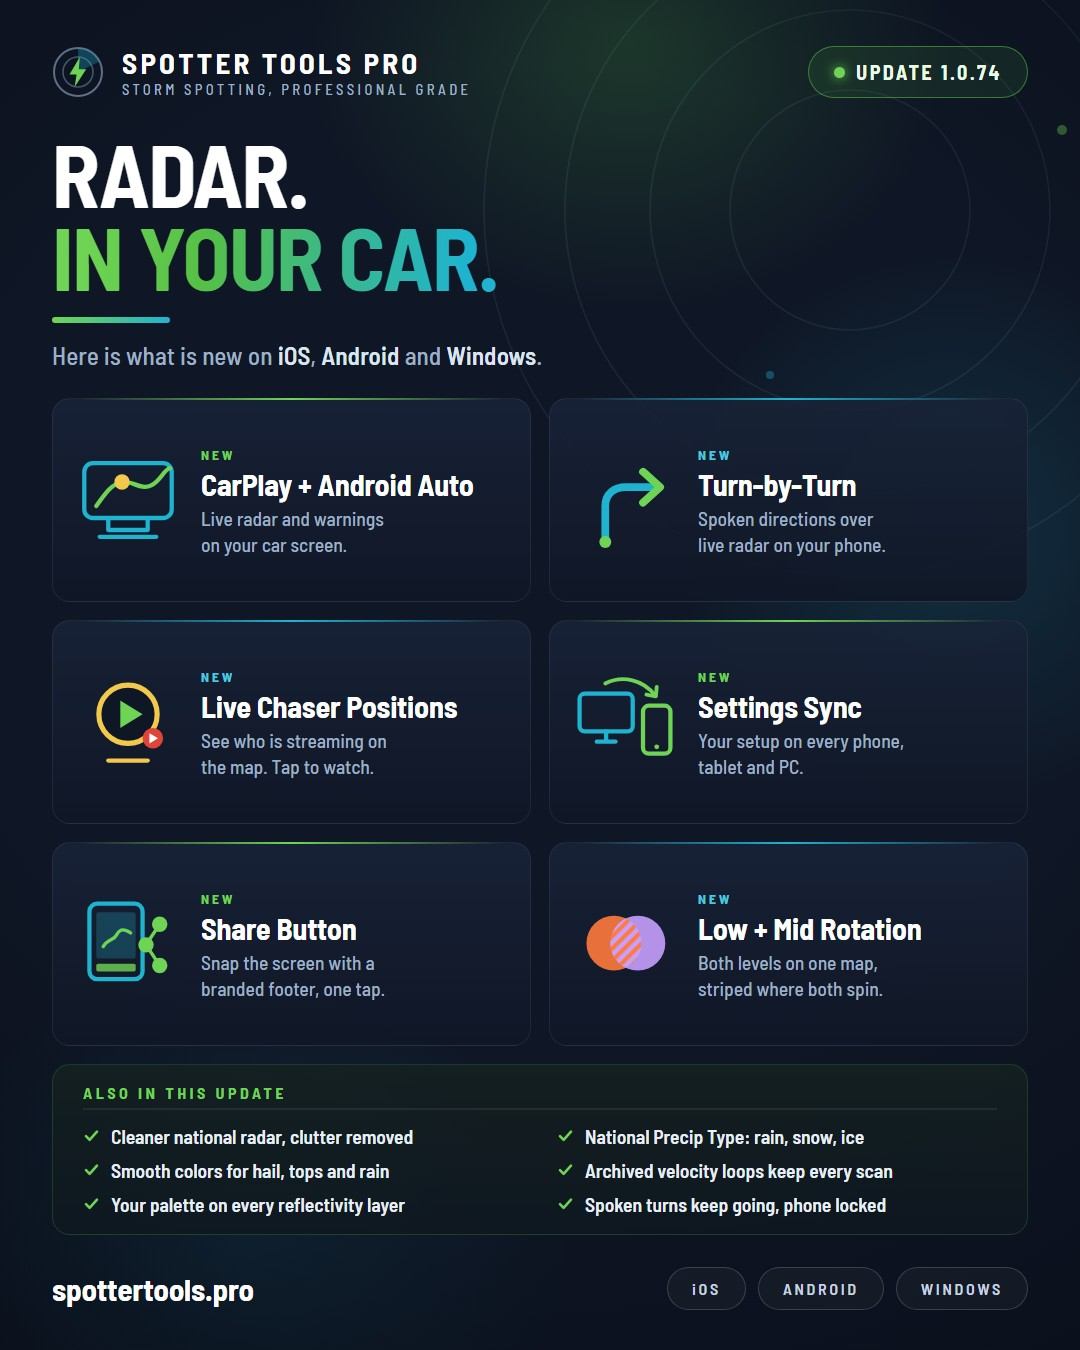
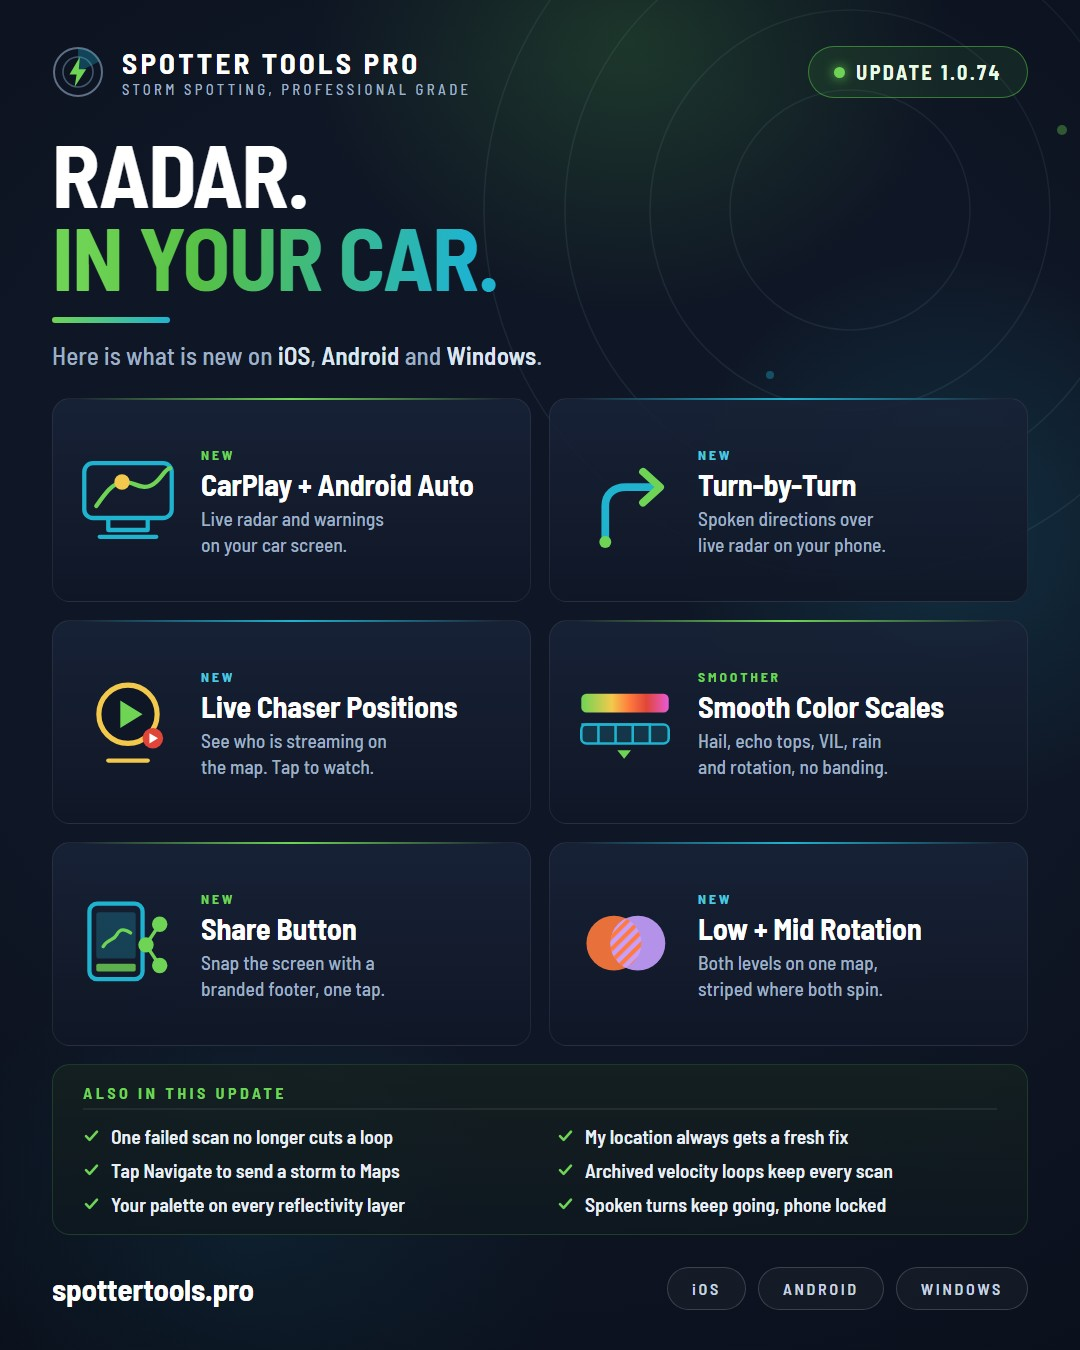
fix(site): 1.0.74 pages drop the 1.0.72 features, which already shipped

Changed region(s): [[0.5194, 0.4978, 0.8861, 0.5911], [0.0917, 0.84, 0.3972, 0.8711], [0.55, 0.84, 0.7944, 0.8711]]

diff --git a/src/content/whats-new/1.0.74.md b/src/content/whats-new/1.0.74.md
@@ -6,8 +6,6 @@
 
 **Radar in your car.** Spotter Tools Pro now runs on **CarPlay** and **Android Auto**, with live radar and warnings on the car's own screen. Phones get spoken turn-by-turn directions over live radar, the map shows which storm chasers are streaming right now, and a new Share button turns any screen into a branded picture.
 
-> **On Android or Windows?** Your last update was 1.0.71, so this one also brings everything from 1.0.72 that was waiting: Settings Sync, a cleaner national radar, national Precip Type and the tropical fixes. iPhone users got those, and turn-by-turn directions, in 1.0.73.
-
 > **New to these features?** There is a step by step guide for each one at [spottertools.pro/1.0.74/howto](/1.0.74/howto)
 
 ## CarPlay (iPhone)
@@ -59,36 +57,7 @@ New on Android. iPhone users have had directions since 1.0.73, and this update k
 - **One tap to share what you see.** A new **Share** button in the bottom bar captures the screen you are on, map included, and adds a footer with the Spotter Tools Pro logo, spottertools.pro and the date and time.
 - **The footer goes below the picture,** never over your legends, and opens your phone's or PC's share menu.
 
-## Settings Sync (new on Android and Windows)
-
-Set the app up once. If you use Spotter Tools Pro on more than one device, every one of them now gets the same setup.
-
-- **Signed in, it just works.** Sign in to your free Spotter Tools Pro account in Settings and sync turns on by itself. Change your map style on your phone and it is sent within seconds; your PC picks it up the next time you open it or come back to its window, or straight away with **Sync now**.
-- **What comes along:** your map style and theme, which layers are on and their options, radar settings such as gate filters, colour palettes (including your own imported .pal files), favorite radars, alert zones and notification choices, your map marker and your home location.
-- **Choose what syncs.** Six groups you can untick on any device: Map style and theme, Layers and layer options, Radar, Alerts and zones, Marker and icon sizes, and Home location and other. Keep different layers on your PC and your phone if you like.
-- **Icon sizes stay sensible.** Marker and icon sizes sync between devices of the same kind, phones and tablets together and computers together, because the same slider looks different on a 6 inch screen and a 27 inch one.
-- **Your phone stays your phone.** Some things never leave the device: passwords and Spotter Network sign-in, your beacon, location sharing, the alerts on and off switch, Chaser Mode and screen settings.
-- **Never mid-use.** Changes from another device land when you open the app or come back to it, or when you tap **Sync now**, never while you are in the middle of something.
-- **Already set up on two devices?** The first time you sign in on a device that has its own settings, the app asks which set to keep.
-- **Your data, your call.** Turn sync off on any device, or delete the saved copy from your account entirely.
-
-> **Settings Sync needs a Spotter Tools Pro account.** It is free and optional: sign in with Google, Apple or an email address under Settings, Spotter Tools Pro Account. The app works exactly as before without one.
-
 ## National radar
-
-- **Quality controlled by default.** The national radar now opens on **Base Reflectivity (QC)**, built from NOAA's MRMS data with birds, insects and ground clutter removed. Those returns sit at the same strength as light rain, so no filter slider could ever clear them, and on many nights they painted a false wash of light green across the East.
-- **Your choice sticks.** Every device switches to the QC version once. If you prefer the original, pick **Base Reflectivity** again and the app remembers it.
-
-> **Longer loops need the original.** The QC product and Precip Type loop up to 2 hours. For 3, 6 or 12 hour national loops, switch to **Base Reflectivity**.
-
-### Precip Type for the whole country
-
-- **The national mosaic, coloured by type.** Pick **Precip Type** in the national radar's product list and every echo is drawn on a rain, snow, sleet or freezing rain colour scale.
-- **Built on the clean mosaic.** It uses the quality controlled radar, so a bird migration is never painted as light snow.
-- **Updated every 15 minutes** from the HRRR model, and each loop frame is coloured from its own time.
-- **The inspector reads the type** at any spot, along with the reflectivity.
-
-> **Precip Type covers the lower 48 states,** where the HRRR model runs. The radar cannot see the temperature between the cloud and the ground, so the type comes from the model and the strength comes from the radar.
 
 ### Low and mid level rotation together
 
@@ -104,25 +73,17 @@ Set the app up once. If you use Spotter Tools Pro on more than one device, every
 
 - **Archived velocity loops keep every scan.** Level 2 velocity loops in archive mode could skip 30 to 60 minutes on nights when the radar kept changing its settings. They now keep every scan.
 - **One bad scan no longer cuts a loop short.** A single scan that failed to download used to end a Level 2 loop at that point and drop every newer frame.
-- **Single site Precip Type is for live radar only.** In archive mode it now steps aside for Reflectivity, because the model data it needs is only kept for a few hours.
-
-## Tropical
-
-- **No more lines around the world.** Storms crossing the 180 degree line in the Pacific drew their model tracks, cones and paths the long way round the globe. They now stay where they belong.
-- **Every model's latest run.** Spaghetti plots now show each model's newest track from the last 12 hours, instead of a single cycle that left out the ensembles and the slower models.
-- **Tracks stay current.** They are checked for updates far more often, and if an update fails the last good tracks stay on the map.
 
 ## Fixes and polish
 
 - **My location finds you fresh.** Tapping the location button now asks for a new GPS fix instead of reusing a cached one, which on iPhone could land on yesterday's spot.
 - **Spoken turns with the iPhone locked.** Directions keep talking when the phone is locked or another app is in front.
 - **Windows: icons and layers on the first launch after an update.** On a busy first launch, markers could be missing and switched-off layers could show until the next start.
-- **Searching Settings for "sync"** now takes you to the sync controls.
 
 ## Nothing here needs this update
 
 These arrived through our servers, so everyone already has them:
 
 - **Buoy cameras open a full viewer** with each of the buoy's six photos one at a time, a 12 hour daylight loop, and live wind, waves, pressure and temperatures from NOAA.
-- **New cameras:** 38 in New Mexico, the E-470 tollway around Denver (with frozen cameras hidden automatically), and Lake Alan Henry, Texas.
+- **New cameras:** the E-470 tollway around Denver (with frozen cameras hidden automatically), and Lake Alan Henry, Texas.
 - **More Live Chasers,** including Jim McGonigle Severe WX, Brian Gustafson and six more chasers linked to Spotter Network.

diff --git a/src/content/howto/1.0.74.md b/src/content/howto/1.0.74.md
@@ -6,8 +6,6 @@ This page walks through each new feature one step at a time. On Windows, whereve
 
 > **Make sure you are on version 1.0.74 first.** On a phone, update from the App Store or Google Play. On Windows, open the Microsoft Store and choose Library, then Get updates. You can check your version in Settings, under About.
 
-> **Coming from 1.0.71 on Android or Windows?** This update also brings Settings Sync, the cleaner national radar and national Precip Type. Their step by step guide is at [spottertools.pro/1.0.72/howto](/1.0.72/howto)
-
 ## CarPlay (iPhone)
 
 ### Open it
